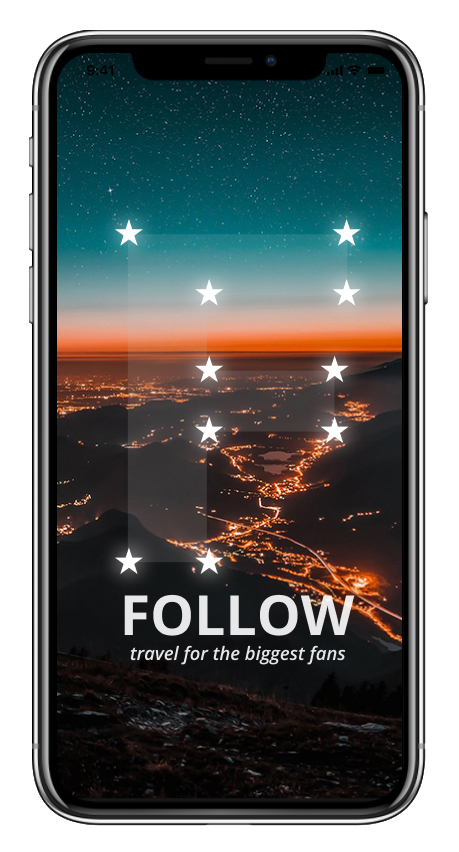
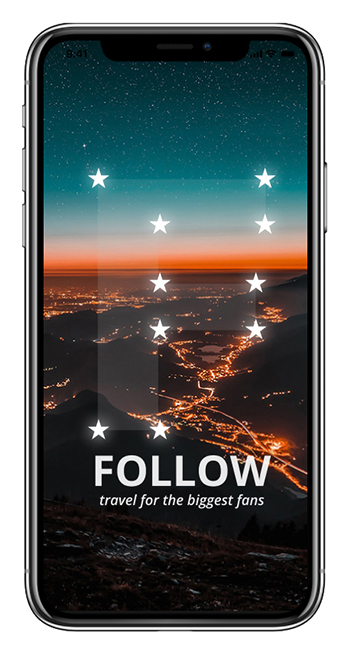
updates

diff --git a/index.html b/index.html
@@ -6,7 +6,7 @@
     <link href="https://cdn.jsdelivr.net/npm/bootstrap@5.0.0-beta1/dist/css/bootstrap.min.css" rel="stylesheet" integrity="sha384-giJF6kkoqNQ00vy+HMDP7azOuL0xtbfIcaT9wjKHr8RbDVddVHyTfAAsrekwKmP1" crossorigin="anonymous">
     <script src="https://ajax.googleapis.com/ajax/libs/jquery/3.5.1/jquery.min.js"></script>
     <title>UX_UI_HW_19_ERICA</title>
-    <link rel="stylesheet" type="text/css" href="css/style_copy.css">
+    <link rel="stylesheet" type="text/css" href="css/style.css">
     <link rel="preconnect" href="https://fonts.gstatic.com">
     <meta name="viewport" content="width=device-width, initial-scale=1, minimum-scale=1"/>
     <link href="https://fonts.googleapis.com/css2?family=Dawning+of+a+New+Day&display=swap" rel="stylesheet"> 
@@ -91,7 +91,9 @@
             <div class="gray-outlinedbox">
                 <h2>Design Concept 01</h2>
                 <h3>case study - individual</h3>
-                <img id="follow-01" src="images/mobile_follow.jpg" alt="screenshot of Follow app in iphone" height="550px"/>
+                <div class="followImg">
+                  <img id="follow-01" src="images/mobile_follow.jpg" alt="screenshot of Follow app in iphone" />
+                </div>
             </div>
             <div class="gray-outlinedbox designbackground">
                 <h2>Design Concept 02</h2>

diff --git a/css/style.css b/css/style.css
@@ -146,23 +146,30 @@ width: 100%;
 }
 
 .gray-outlinedbox {
+    display: block;
     border: thin solid #B9B6B6;
     padding: 30px;
     border-radius: 20px;
     width: 50%;
     justify-content: center;
+    align-content: center;
 }
 
 #follow-01 {
-    display: block;
-    width: 100%;
+    /* display: inline-block;
+    width: 100%;*/
     height: auto;
+}
+
+.followImg {
+    display: flex;
+    justify-content: center;
+    width: 100%;
 }
 
 /*TEXT*/
 h1 {
     font-family: 'Shorelines Script Bold', cursive;
-    src: url(../fonts/Shorelines\ Script\ Bold.otf) format('otf');
     font-size: 400%;
     color: #3caea3;
     margin-top: 25px;
@@ -172,7 +179,7 @@ h1 {
 h2 {
     display: flex;
     font-family: "Roboto", sans-serif;  
-    text-align: flex-start;
+    /*text-align: flex-start;*/
     margin-top: 0px;
     margin-bottom: 3px;
     font-weight: bold;
@@ -259,7 +266,7 @@ p {
         width: 100%;
     }
     .designbackground{
-        height: 500px;
+        height: 700px;
         margin-top: 20px;
         margin-left: 0px;
     }
